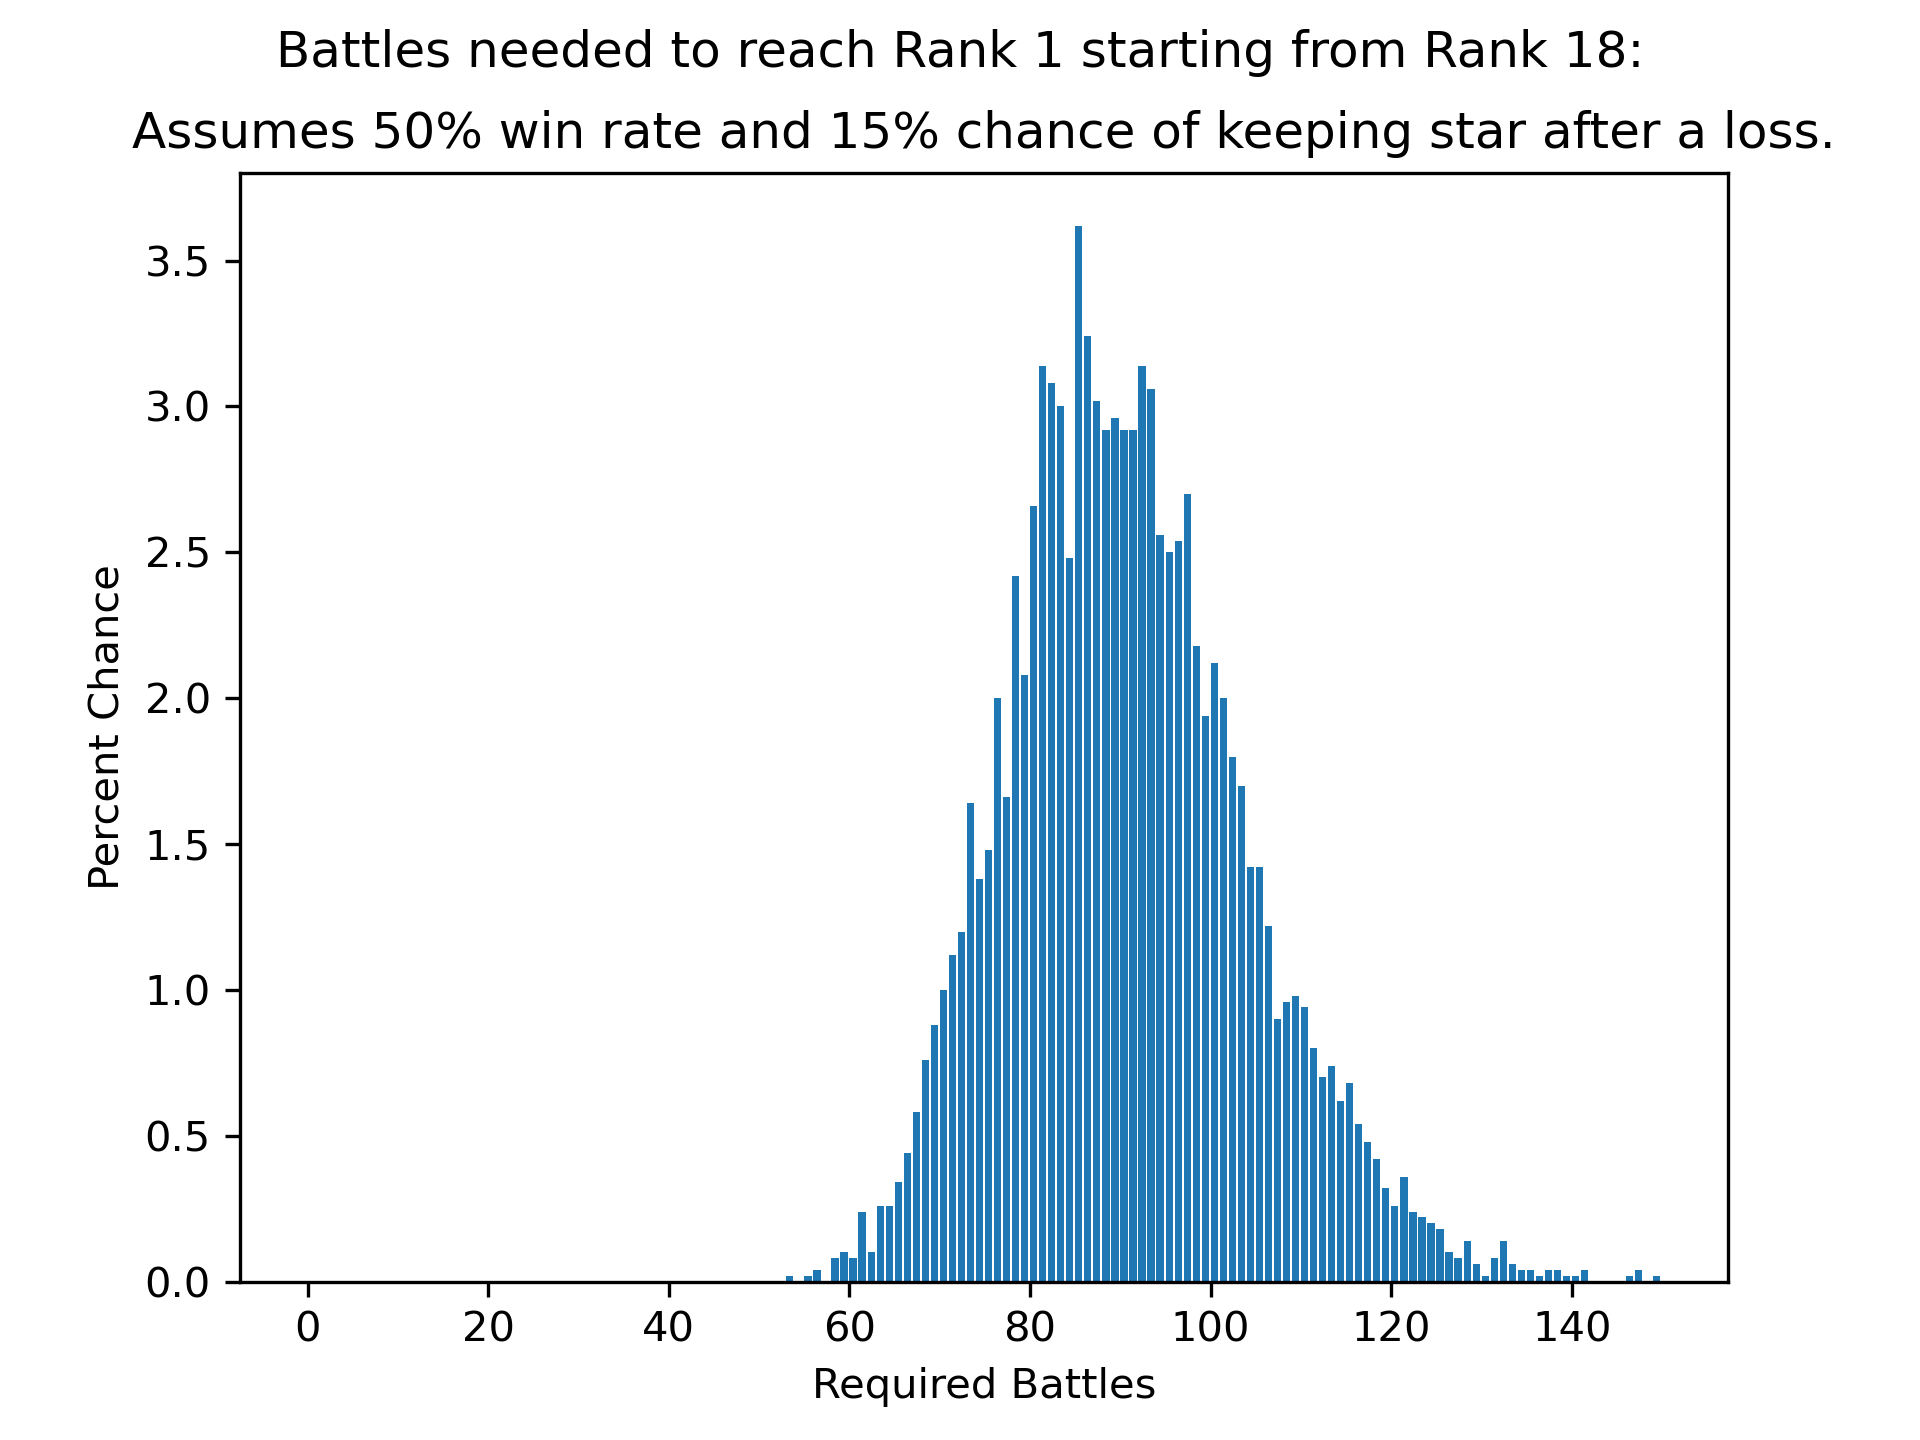
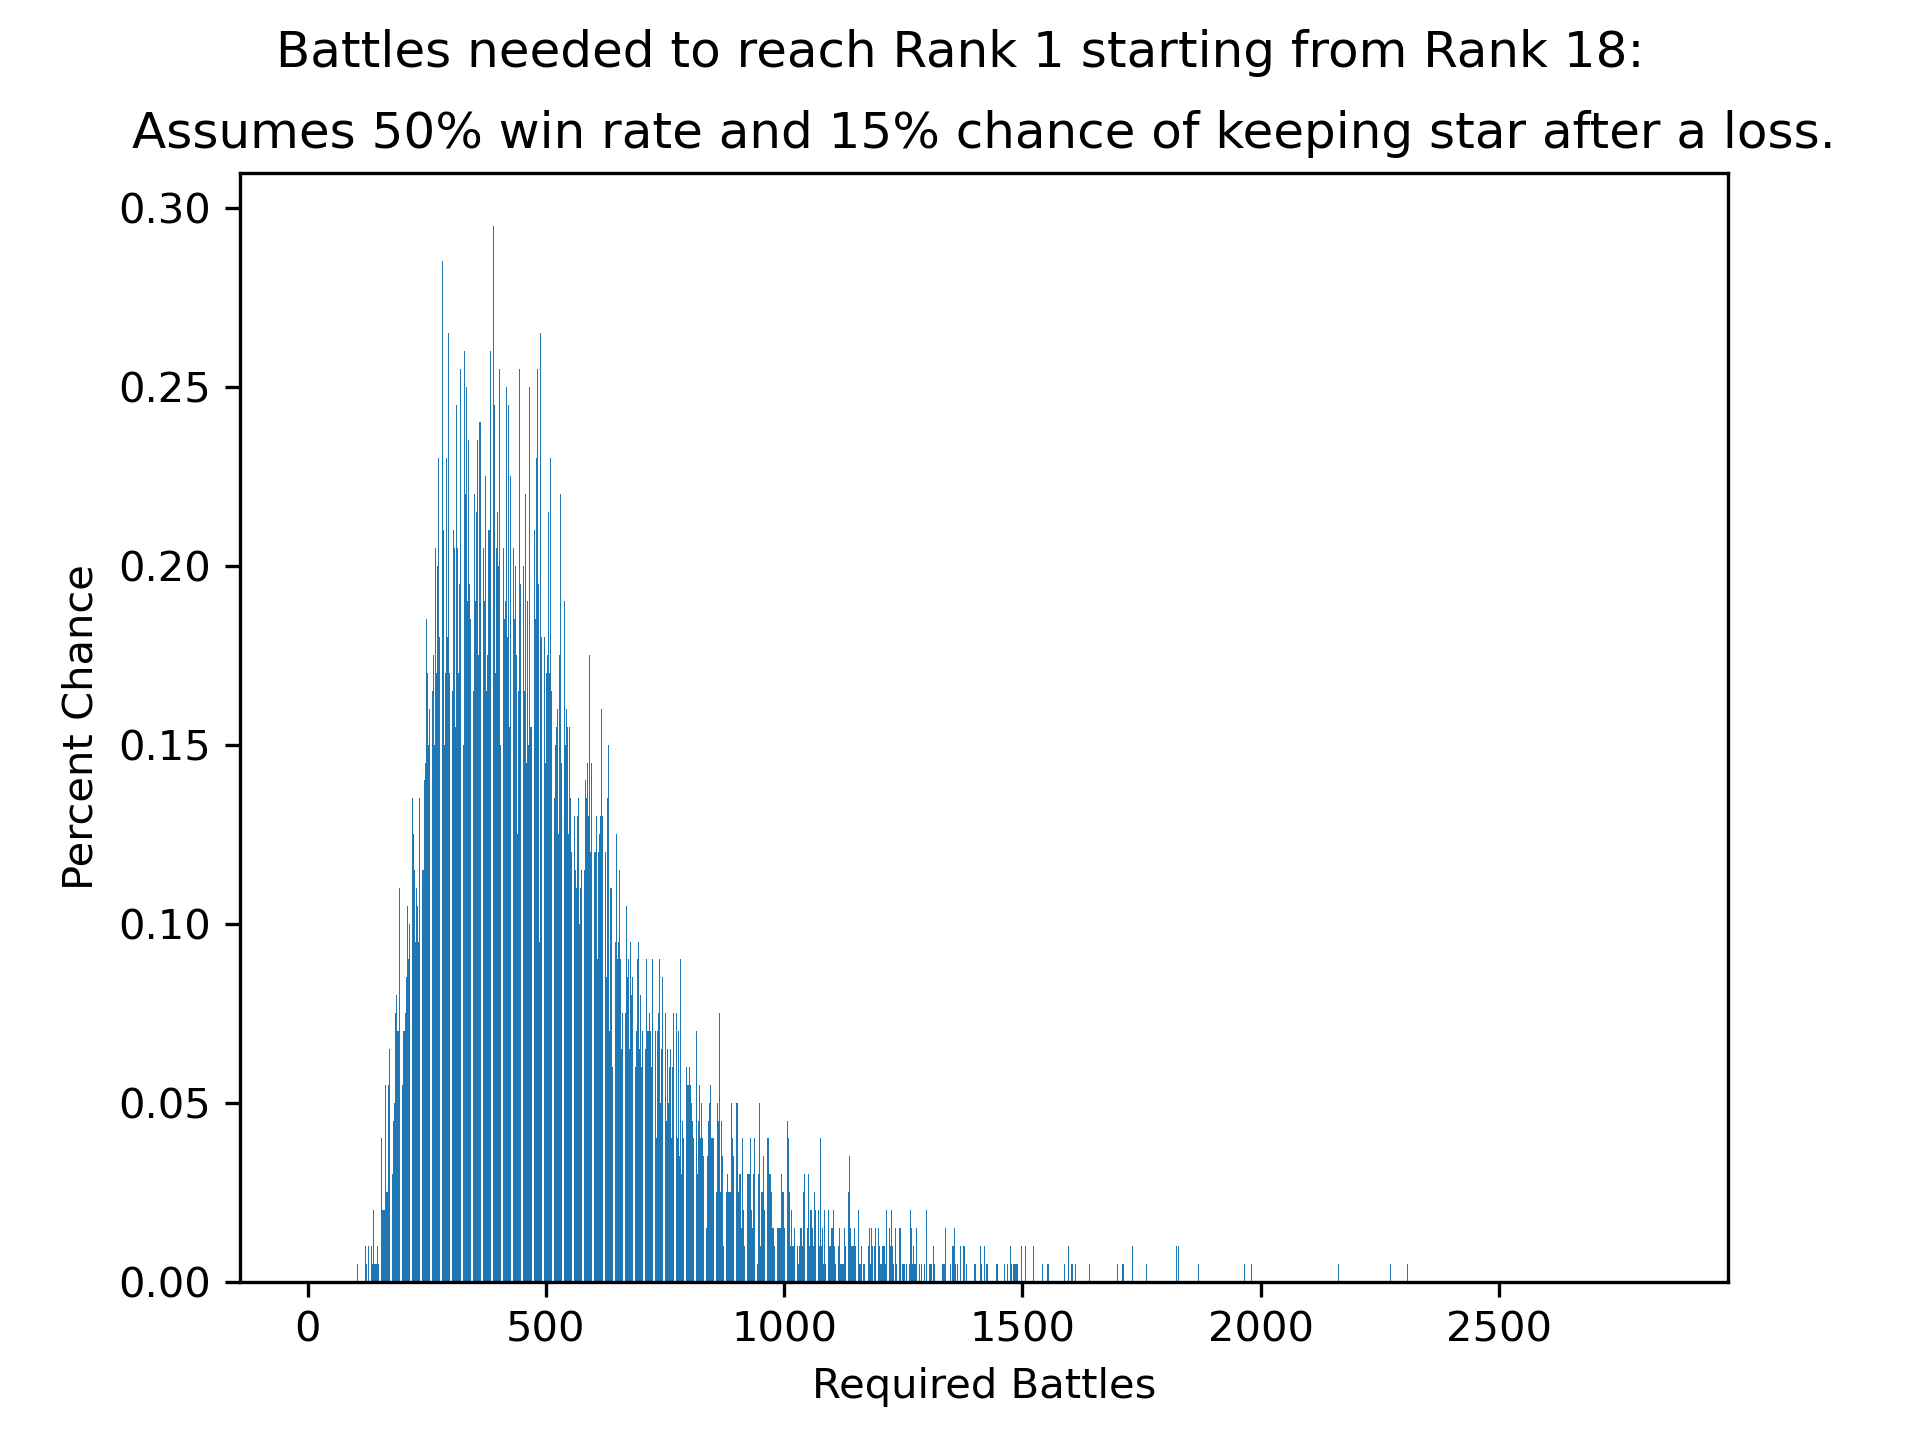
Fixed first place chance bug. Updated free star logic to match Season 15 (only ranks 18-11 grant a free star).

diff --git a/wows-ranked.py b/wows-ranked.py
@@ -10,6 +10,9 @@ DEFAULT_MAX_BATTLES = 10000  # maximum number of battles before simulation stops
 DEFAULT_SIMULATION_RUNS = 5000  # number of times to run the simulation
 
 # Season 16 rank information
+# Assumes rank 18-11 give a free star same as season 15 https://worldofwarships.com/en/news/general-news/ranked-15/
+# TODO: Fix rank 17 logic since stars can't be lost (see https://worldofwarships.com/en/news/general-news/ranked-15/).
+
 ranks = {
     18: {
         'stars': 1,
@@ -54,47 +57,47 @@ ranks = {
     10: {
         'stars': 4,
         'irrevocable': False,
-        'free-star': True
+        'free-star': False
     },
     9: {
         'stars': 4,
         'irrevocable': False,
-        'free-star': True
+        'free-star': False
     },
     8: {
         'stars': 4,
         'irrevocable': False,
-        'free-star': True
+        'free-star': False
     },
     7: {
         'stars': 4,
         'irrevocable': False,
-        'free-star': True
+        'free-star': False
     },
     6: {
         'stars': 4,
         'irrevocable': False,
-        'free-star': True
+        'free-star': False
     },
     5: {
         'stars': 5,
         'irrevocable': False,
-        'free-star': True
+        'free-star': False
     },
     4: {
         'stars': 5,
         'irrevocable': False,
-        'free-star': True
+        'free-star': False
     },
     3: {
         'stars': 5,
         'irrevocable': False,
-        'free-star': True
+        'free-star': False
     },
     2: {
         'stars': 5,
         'irrevocable': False,
-        'free-star': True
+        'free-star': False
     },
     1: {
         'stars': 1,
@@ -121,12 +124,14 @@ def one_run(wr, fr, max_battles=DEFAULT_MAX_BATTLES):
 
     while simulated_rank != end_rank:
         battles += 1
+        if battles > max_battles:
+            break
 
         # Determine battle outcome
         if random.random() < wr:
-            stars += 1
-        elif random.random() < fr:  # best player doesn't lose star
-            stars -= 1
+            stars += 1  # win
+        elif random.random() >= fr:  # best player doesn't lose star
+            stars -= 1  # loss and no star saved
 
         # Check if player moved up a rank
         if stars == ranks[simulated_rank]['stars']:
@@ -143,9 +148,6 @@ def one_run(wr, fr, max_battles=DEFAULT_MAX_BATTLES):
             else:
                 simulated_rank += 1  # move "down" a rank
                 stars = ranks[simulated_rank]['stars'] - 1  # 1 star away from next rank
-
-        if battles > max_battles:
-            break
 
     return battles
 
